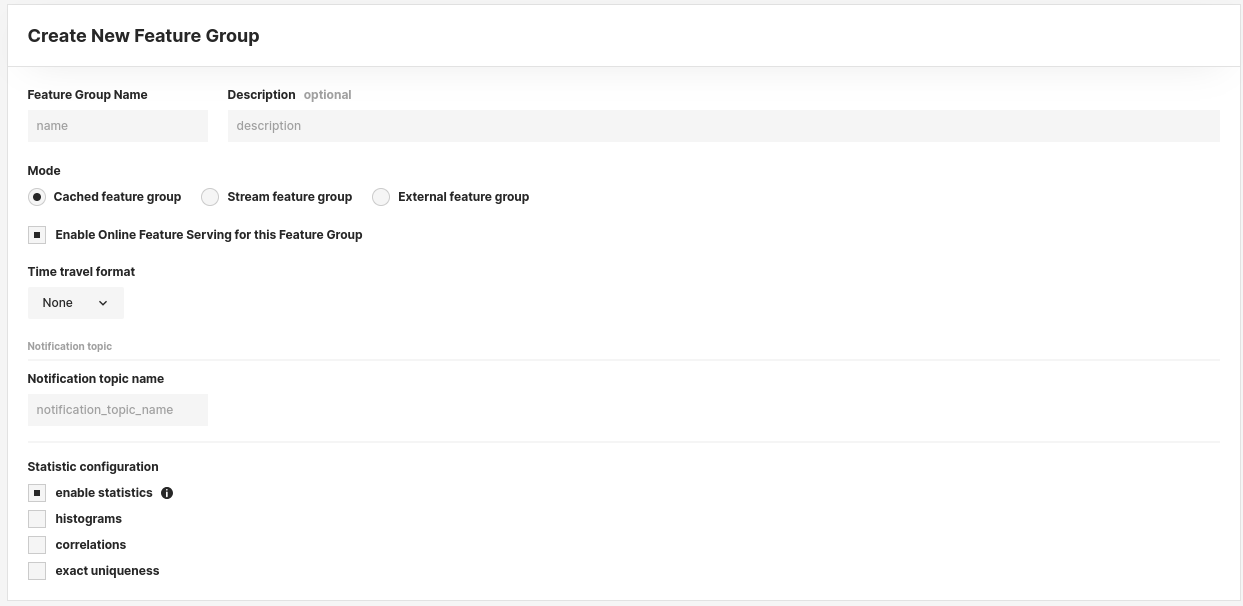
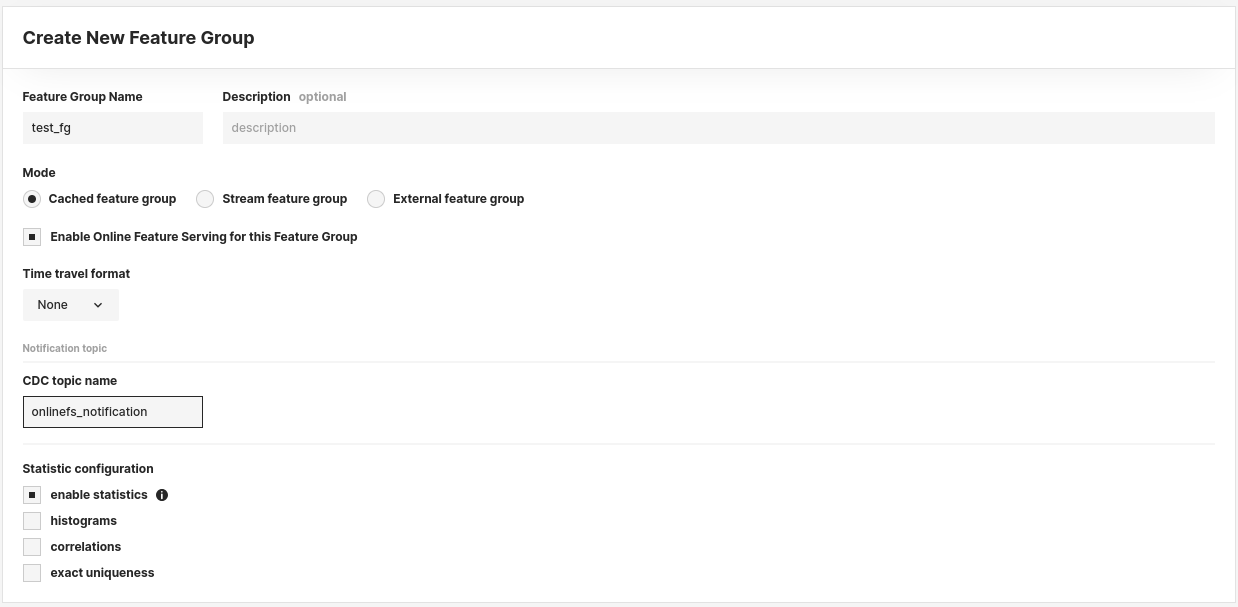
small updates

diff --git a/docs/user_guides/fs/feature_group/notification.md b/docs/user_guides/fs/feature_group/notification.md
@@ -63,7 +63,8 @@ It can take some time for these changes to take place since the onlinefs service
 ### Create a Feeature Group with a notification topic
 
 During the creation of the feature group enable online feature serving.
-When enabled you will be able to set the notification topic name property.
+When enabled you will be able to set the `CDC topic name` property.
+CDC stands for change data capture.
 
 <p align="center">
   <figure>
@@ -74,7 +75,7 @@ When enabled you will be able to set the notification topic name property.
 ### Update Feeature Group with notification topic
 
 The notification topic name can be changed after creation by editing the feature group.
-By setting the `Notification topic name` value to empty the notifications will be disabled.
+By setting the `CDC topic name` value to empty the notifications will be disabled.
 It can take some time for changes to notifications to take place.
 
 <p align="center">
